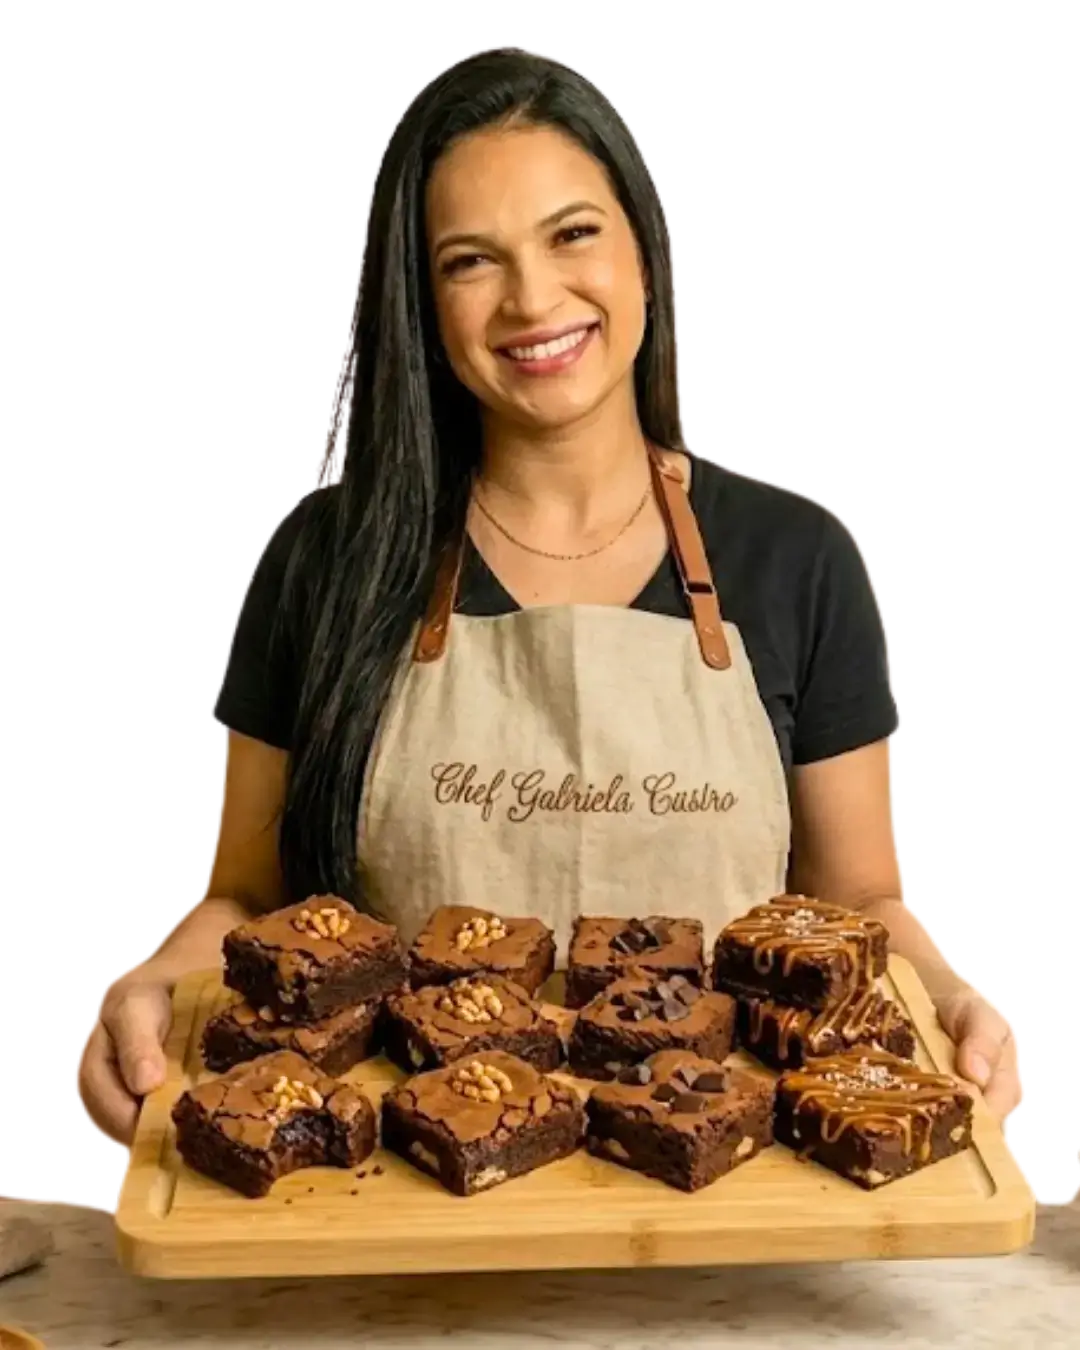
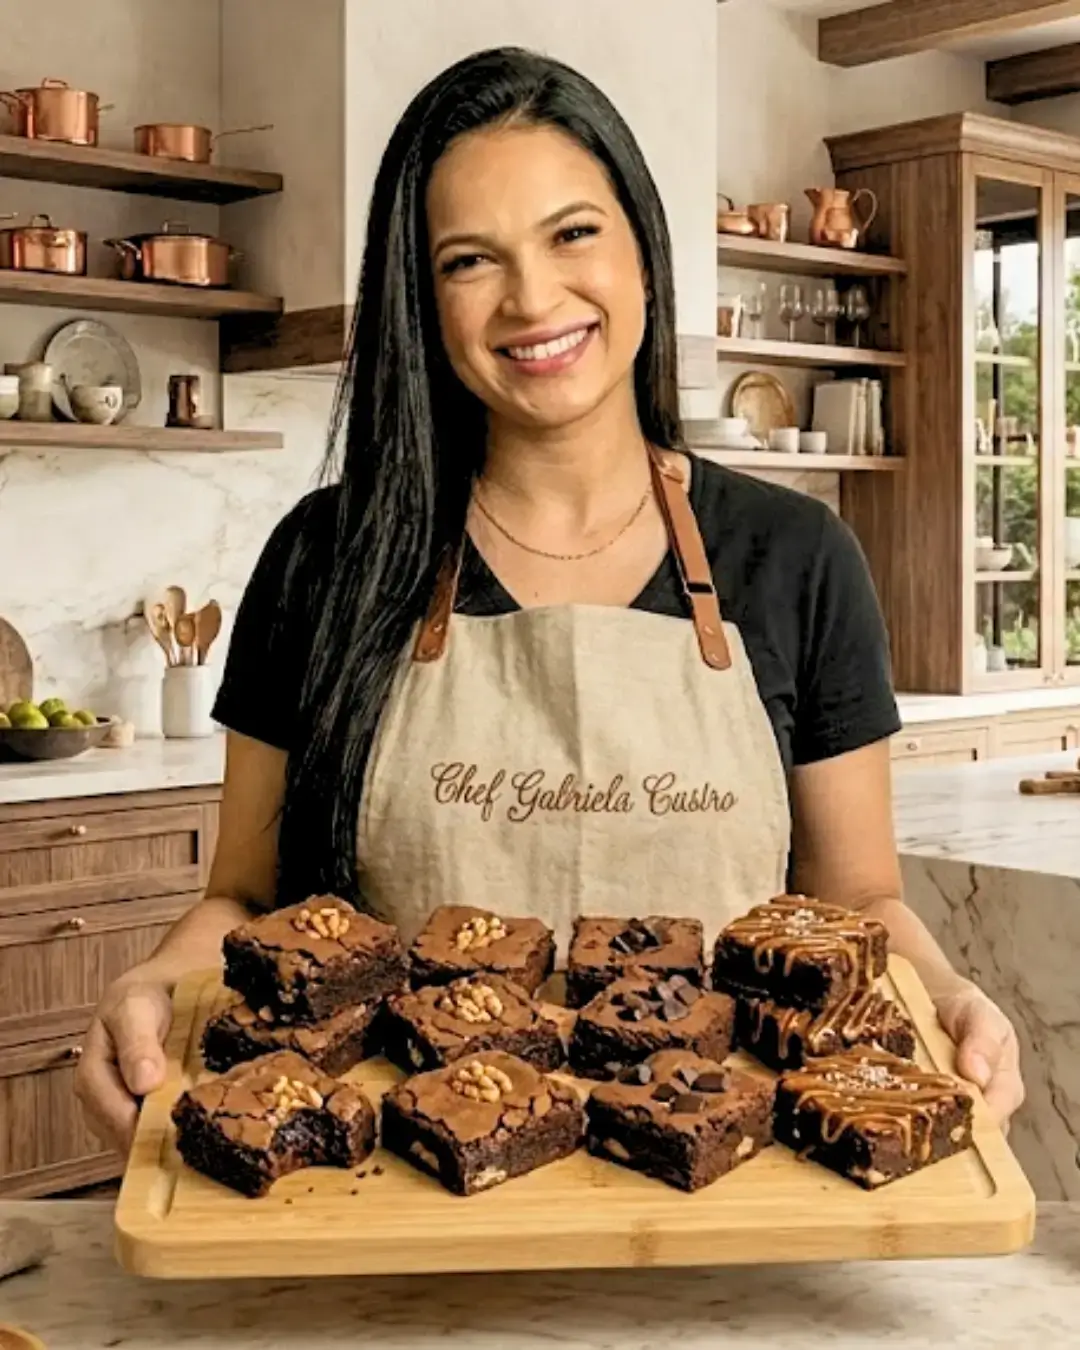
Changes

diff --git a/src/components/sections/HeroSection.tsx b/src/components/sections/HeroSection.tsx
@@ -16,8 +16,8 @@ const trackViewContent = (name: string, value: number) => {
 
 export const HeroSection = memo(() => {
   return (
-    <section className="relative min-h-screen py-12 md:py-16 px-4 overflow-hidden bg-gradient-hero">
-      <div className="container mx-auto max-w-3xl">
+    <section className="relative min-h-screen px-4 overflow-hidden" style={{ background: 'linear-gradient(180deg, hsl(20,20%,8%) 0%, hsl(15,25%,5%) 40%, hsl(20,15%,4%) 100%)' }}>
+      <div className="container mx-auto max-w-3xl pt-6 pb-12">
         <div className="space-y-5 text-center">
           
           {/* Live Badge */}
@@ -27,9 +27,90 @@ export const HeroSection = memo(() => {
               <span className="text-white/90 font-medium text-sm">+500 Alunas</span>
             </div>
           </div>
-          
+
+          {/* Expert Photo - smoky/dissolve effect */}
+          <div className="relative w-full max-w-xs sm:max-w-sm mx-auto" style={{ contain: 'layout' }}>
+            {/* Radial glow behind the chef */}
+            <div 
+              className="absolute inset-0 z-0"
+              style={{
+                background: 'radial-gradient(ellipse 80% 60% at 50% 40%, hsl(25,60%,25%,0.3) 0%, transparent 70%)',
+              }}
+            />
+            
+            {/* Main chef image with smoky dissolve edges */}
+            <div className="relative z-[1]">
+              <div 
+                className="relative mx-auto overflow-hidden"
+                style={{
+                  WebkitMaskImage: 'radial-gradient(ellipse 85% 80% at 50% 40%, black 50%, transparent 100%)',
+                  maskImage: 'radial-gradient(ellipse 85% 80% at 50% 40%, black 50%, transparent 100%)',
+                }}
+              >
+                <img
+                  alt="Chef Gabriella Castro segurando bandeja de brownies gourmet"
+                  width={400}
+                  height={500}
+                  fetchPriority="high"
+                  decoding="sync"
+                  loading="eager"
+                  className="w-full h-auto object-cover"
+                  src={chefGabriella}
+                />
+              </div>
+
+              {/* Floating brownie - top left */}
+              <div
+                className="absolute -top-2 left-0 w-20 h-20 sm:w-24 sm:h-24 rounded-2xl overflow-hidden border-2 border-white/25 transform -rotate-6 z-10"
+                style={{ boxShadow: '0 8px 25px rgba(0,0,0,0.5)' }}
+              >
+                <img src={brownie1} alt="Brownie gourmet" width={96} height={96} loading="eager" decoding="async" className="w-full h-full object-cover" />
+              </div>
+
+              {/* Floating brownie - top right */}
+              <div
+                className="absolute top-6 -right-1 w-20 h-20 sm:w-24 sm:h-24 rounded-2xl overflow-hidden border-2 border-white/25 transform rotate-6 z-10"
+                style={{ boxShadow: '0 8px 25px rgba(0,0,0,0.5)' }}
+              >
+                <img src={brownie2} alt="Brownie recheado" width={96} height={96} loading="eager" decoding="async" className="w-full h-full object-cover" />
+              </div>
+
+              {/* Floating brownie - bottom left */}
+              <div
+                className="absolute bottom-20 -left-3 w-[72px] h-[72px] sm:w-[88px] sm:h-[88px] rounded-2xl overflow-hidden border-2 border-white/25 transform rotate-3 z-10"
+                style={{ boxShadow: '0 8px 25px rgba(0,0,0,0.5)' }}
+              >
+                <img src={brownie3} alt="Brownie premium" width={88} height={88} loading="eager" decoding="async" className="w-full h-full object-cover" />
+              </div>
+
+              {/* Chef name badge */}
+              <div className="absolute bottom-8 left-1/2 -translate-x-1/2 z-10">
+                <div className="bg-gradient-to-r from-[hsl(20,20%,8%)]/95 via-[hsl(20,25%,12%)]/95 to-[hsl(20,20%,8%)]/95 border border-gold/50 rounded-full px-6 py-2.5 backdrop-blur-md shadow-lg" style={{ boxShadow: '0 4px 20px rgba(0,0,0,0.5), inset 0 1px 0 rgba(255,200,100,0.15)' }}>
+                  <div className="flex items-center gap-2">
+                    <span className="text-[hsl(25,95%,55%)] text-base">👩🍳</span>
+                    <div className="flex flex-col leading-tight">
+                      <span className="text-gold font-display font-bold text-sm tracking-wide">Gabriella Castro</span>
+                      <span className="text-white/50 text-[10px] font-body tracking-widest uppercase">Chef Confeiteira</span>
+                    </div>
+                  </div>
+                </div>
+              </div>
+
+              {/* Earnings badge */}
+              <div className="absolute bottom-24 -right-2 sm:right-0 bg-[hsl(20,20%,10%)] border-2 border-gold/60 rounded-2xl px-4 py-3 shadow-lg transform rotate-3 z-10" style={{ boxShadow: '0 8px 25px rgba(0,0,0,0.4)' }}>
+                <div className="flex items-center gap-2">
+                  <span className="text-2xl">💰</span>
+                  <div className="text-left">
+                    <p className="text-gold font-display font-bold text-sm leading-tight">R$280 em 1 dia</p>
+                    <p className="text-white/60 text-[10px] font-body">— Aluna do grupo VIP</p>
+                  </div>
+                </div>
+              </div>
+            </div>
+          </div>
+
           {/* Main Headline */}
-          <div className="relative pt-2">
+          <div className="relative">
             <h1 className="font-display text-[1.75rem] sm:text-3xl md:text-4xl lg:text-5xl leading-[1.2] font-black tracking-tight">
               <span className="text-[hsl(25,95%,55%)]">Brownies Lucrativos </span>
               <span className="text-white">Mesmo Para Quem </span>
@@ -38,77 +119,9 @@ export const HeroSection = memo(() => {
               <span className="text-[hsl(25,95%,55%)]">Começando</span>
             </h1>
           </div>
-          
-          {/* Expert Photo Section with floating brownies */}
-          <div className="relative w-full max-w-sm mx-auto my-4" style={{ aspectRatio: '3/4', contain: 'layout' }}>
-            {/* Main expert image */}
-            <div className="relative rounded-2xl overflow-hidden" style={{ boxShadow: '0 0 50px rgba(255, 150, 50, 0.15)' }}>
-              <img
-                alt="Chef Gabriella Castro segurando bandeja de brownies gourmet"
-                width={400}
-                height={533}
-                fetchPriority="high"
-                decoding="sync"
-                loading="eager"
-                className="w-full h-full rounded-2xl object-cover"
-                style={{ aspectRatio: '3/4' }}
-                src={chefGabriella}
-              />
-              {/* Gradient overlay at bottom for text readability */}
-              <div className="absolute inset-x-0 bottom-0 h-1/3 bg-gradient-to-t from-[hsl(20,20%,6%)] via-[hsl(20,20%,6%)]/60 to-transparent" />
-            </div>
-
-            {/* Chef name badge */}
-            <div className="absolute bottom-4 left-1/2 -translate-x-1/2 z-10">
-              <div className="bg-gradient-to-r from-[hsl(20,20%,8%)]/95 via-[hsl(20,25%,12%)]/95 to-[hsl(20,20%,8%)]/95 border border-gold/50 rounded-full px-6 py-2.5 backdrop-blur-md shadow-lg" style={{ boxShadow: '0 4px 20px rgba(0,0,0,0.5), inset 0 1px 0 rgba(255,200,100,0.15)' }}>
-                <div className="flex items-center gap-2">
-                  <span className="text-[hsl(25,95%,55%)] text-base">👩🍳</span>
-                  <div className="flex flex-col leading-tight">
-                    <span className="text-gold font-display font-bold text-sm tracking-wide">Gabriella Castro</span>
-                    <span className="text-white/50 text-[10px] font-body tracking-widest uppercase">Chef Confeiteira</span>
-                  </div>
-                </div>
-              </div>
-            </div>
-
-            {/* Floating brownie - top left */}
-            <div
-              className="absolute -top-3 -left-3 w-20 h-20 sm:w-24 sm:h-24 rounded-xl overflow-hidden border-2 border-white/20 shadow-lg transform -rotate-6"
-              style={{ boxShadow: '0 8px 20px rgba(0,0,0,0.4)' }}
-            >
-              <img src={brownie1} alt="Brownie gourmet" width={96} height={96} loading="eager" decoding="async" className="w-full h-full object-cover" />
-            </div>
-
-            {/* Floating brownie - top right */}
-            <div
-              className="absolute top-8 -right-3 w-20 h-20 sm:w-24 sm:h-24 rounded-xl overflow-hidden border-2 border-white/20 shadow-lg transform rotate-6"
-              style={{ boxShadow: '0 8px 20px rgba(0,0,0,0.4)' }}
-            >
-              <img src={brownie2} alt="Brownie recheado" width={96} height={96} loading="eager" decoding="async" className="w-full h-full object-cover" />
-            </div>
-
-            {/* Floating brownie - bottom left */}
-            <div
-              className="absolute bottom-16 -left-4 w-18 h-18 sm:w-22 sm:h-22 rounded-xl overflow-hidden border-2 border-white/20 shadow-lg transform rotate-3"
-              style={{ boxShadow: '0 8px 20px rgba(0,0,0,0.4)', width: '80px', height: '80px' }}
-            >
-              <img src={brownie3} alt="Brownie premium" width={88} height={88} loading="eager" decoding="async" className="w-full h-full object-cover" />
-            </div>
-
-            {/* Earnings badge */}
-            <div className="absolute -bottom-2 -right-2 sm:right-0 bg-[hsl(20,20%,10%)] border-2 border-gold/60 rounded-2xl px-4 py-3 shadow-lg transform rotate-3 z-10" style={{ boxShadow: '0 8px 25px rgba(0,0,0,0.4)' }}>
-              <div className="flex items-center gap-2">
-                <span className="text-2xl">💰</span>
-                <div className="text-left">
-                  <p className="text-gold font-display font-bold text-sm leading-tight">R$280 em 1 dia</p>
-                  <p className="text-white/60 text-[10px] font-body">— Aluna do grupo VIP</p>
-                </div>
-              </div>
-            </div>
-          </div>
 
           {/* Subheadline */}
-          <div className="max-w-xl mx-auto pt-2">
+          <div className="max-w-xl mx-auto">
             <p className="font-body text-base sm:text-lg md:text-xl leading-relaxed text-white">
               Receitas de brownie que{" "}
               <span className="font-bold">não fica seca, molenga ou até mesmo aquela massa crua</span>, e fica pronta em{" "}
@@ -119,7 +132,7 @@ export const HeroSection = memo(() => {
           </div>
           
           {/* Price Block */}
-          <div className="relative mx-auto max-w-xs pt-4">
+          <div className="relative mx-auto max-w-xs pt-2">
             <div className="flex items-center justify-center gap-3 mb-2">
               <span className="text-base line-through text-white/50 font-body">De R$29</span>
               <span className="bg-[hsl(25,95%,55%)] text-white text-xs font-bold px-3 py-1 rounded-md">
@@ -178,19 +191,6 @@ export const HeroSection = memo(() => {
               <Clock className="w-4 h-4 text-white/60" />
               <span className="text-white/70">Acesso Imediato</span>
             </span>
-          </div>
-          
-          {/* Stats */}
-          <div className="flex items-center justify-center gap-8 py-4">
-            <div className="text-center">
-              <div className="text-3xl md:text-4xl font-display font-bold text-gold">30</div>
-              <div className="text-sm text-white/60">minutos</div>
-            </div>
-            <div className="w-px h-12 bg-white/20"></div>
-            <div className="text-center">
-              <div className="text-3xl md:text-4xl font-display font-bold text-gold">+500</div>
-              <div className="text-sm text-white/60">Alunas</div>
-            </div>
           </div>
           
           {/* Empathy Copy */}
